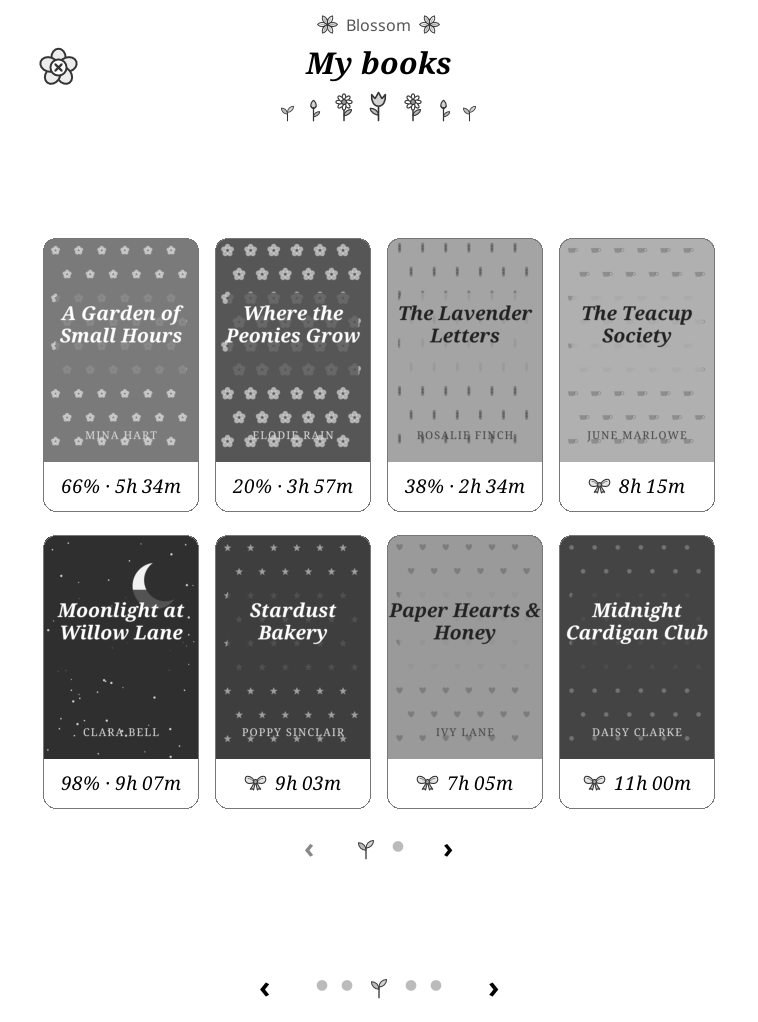
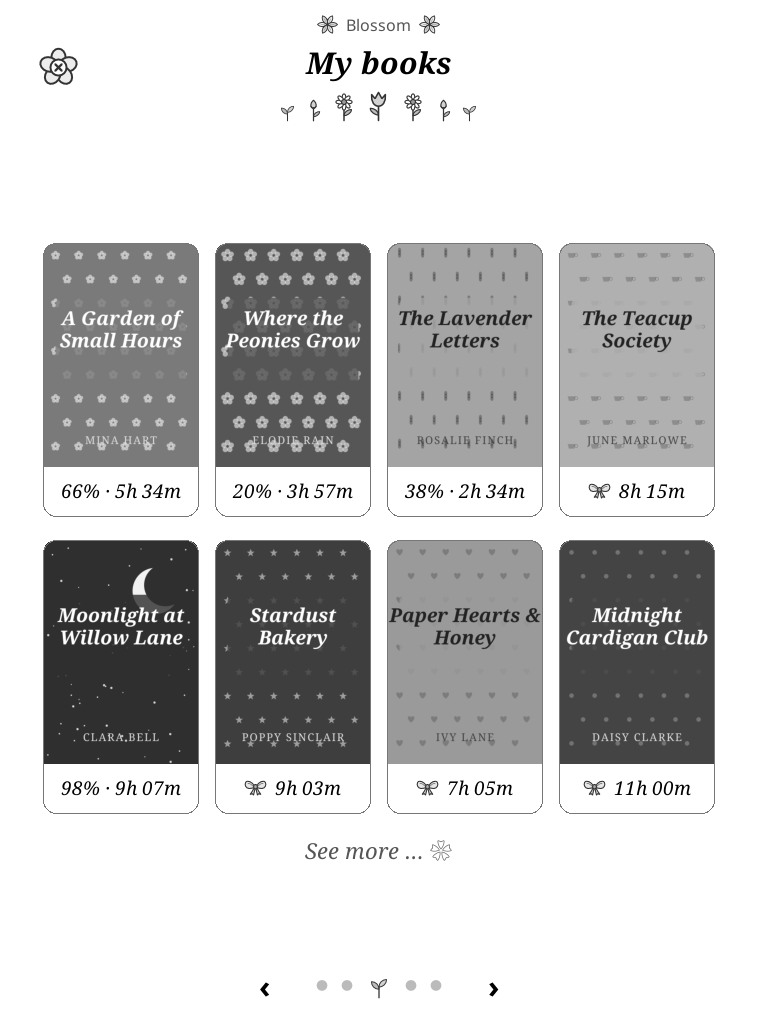
My books: one pager only; 'See more …' opens the full shelf gallery

diff --git a/README.md b/README.md
@@ -56,7 +56,8 @@ marks the current page.
 
 <img src="docs/screenshots/3-books.png" width="300" align="right" alt="My books">
 
-- Every book you've read, most recent first, 8 per page (4×2).
+- Your 8 most recent books (4×2). **See more …** opens **All my books**: every book you've read,
+  8 per page.
 - Each cover sits edge to edge in a rounded frame, with its title, **% read** and **time spent** below.
 - Finished books get a little 🎀 bow.
 
